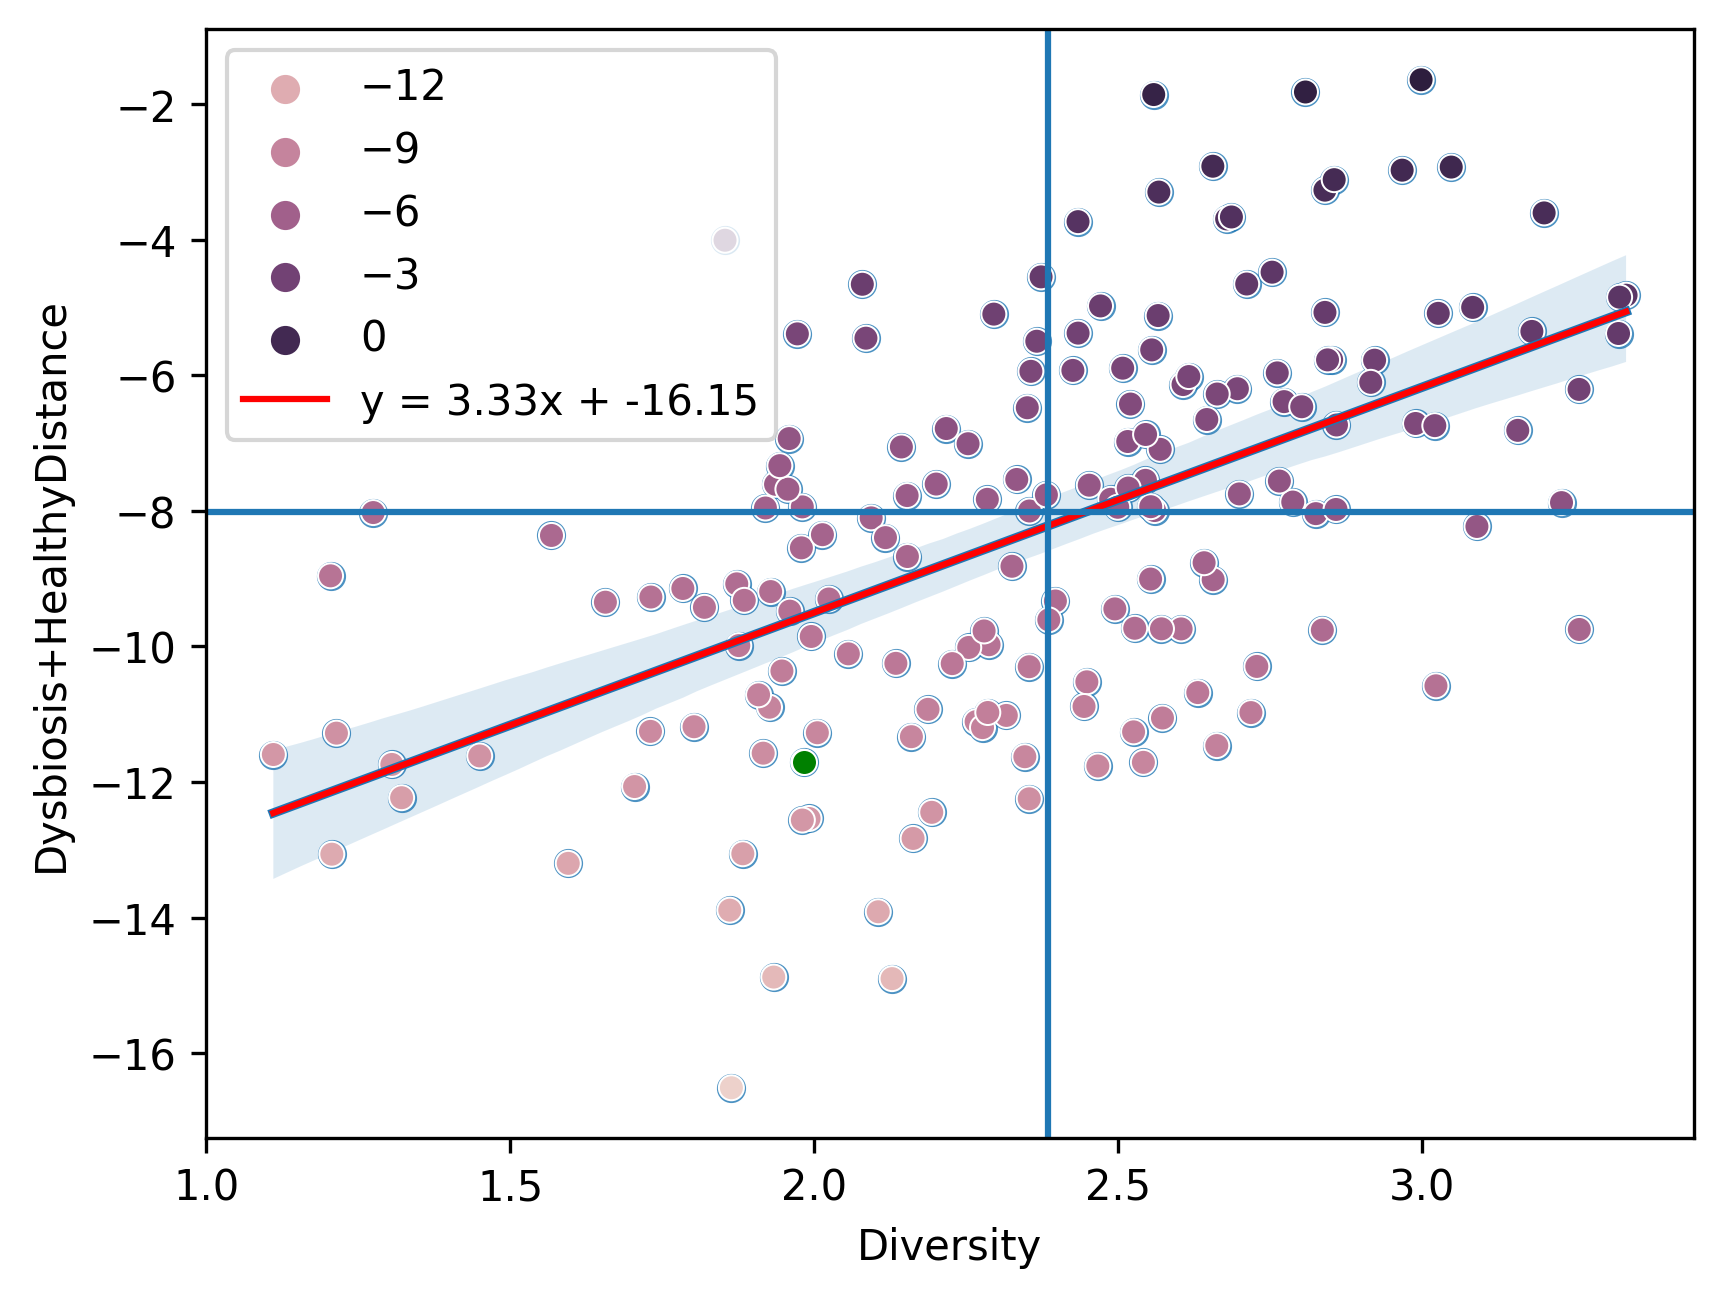
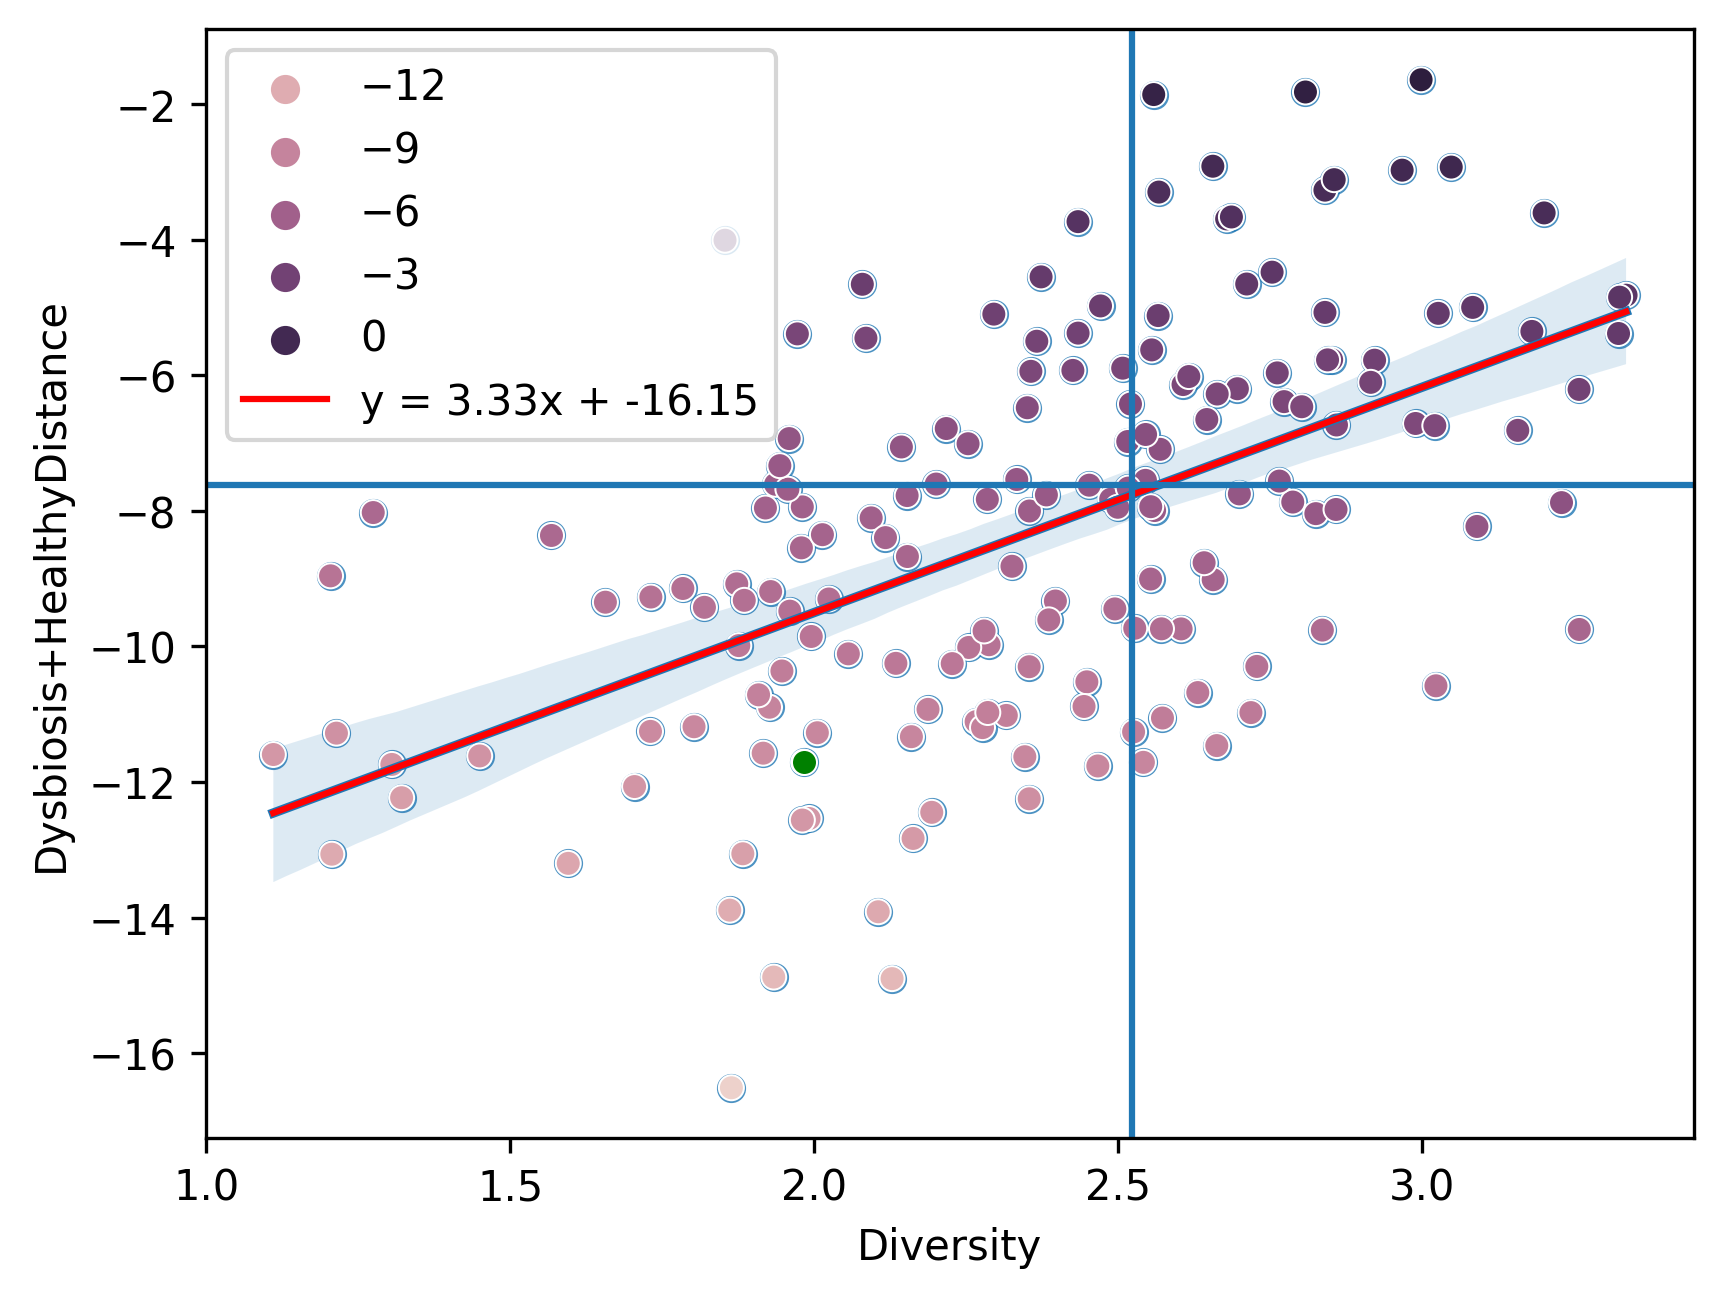
Update the code - EBID

Changed region(s): [[0.123, 0.0308, 0.9843, 0.8629], [0.7075, 0.3082, 0.7382, 0.339]]

diff --git a/comp_percentile_rank_forRPA.py b/comp_percentile_rank_forRPA.py
@@ -344,7 +344,7 @@ class CompAnimalDisease:
             print("Error has occurred in the CalculateHealthyDistance process")
             sys.exit()
     
-        return rv, rvmsg          
+        return rv, rvmsg    
     
     def CalculatePercentileRank(self):
         """
@@ -463,8 +463,7 @@ class CompAnimalDisease:
 
             # generate x and y values for the line
             x_vals = np.linspace(start=self.df_mrs_db['Diversity'].min(), stop=self.df_mrs_db['Diversity'].max(), num=100)
-            y_vals = intercept + slope * x_vals       
-            
+            y_vals = intercept + slope * x_vals                   
             
             sns.scatterplot(x=self.df_mrs_db['Diversity'], y=(self.df_mrs_db['Dysbiosis'] + self.df_mrs_db['HealthyDistance']), hue = self.df_mrs_db['TotalScore'] , data=self.df_mrs_db)
             
@@ -476,10 +475,32 @@ class CompAnimalDisease:
             plt.ylabel('Dysbiosis+HealthyDistance')
             plt.legend()
             
-            x_median = self.df_mrs_db['Diversity'].median(skipna=True)
-            y_median = (self.df_mrs_db['Dysbiosis'] + self.df_mrs_db['HealthyDistance']).median(skipna=True)
-            plt.axhline(y=y_median, xmin=0, xmax=1)
-            plt.axvline(x=x_median, ymin=0, ymax=1)
+            if self.species == 'dog':
+                li_x_quartile = list(self.df_mrs_db['Diversity'].quantile([0.6]))
+                li_y_quartile = list((self.df_mrs_db['Dysbiosis'] + self.df_mrs_db['HealthyDistance']).quantile([0.6]))                
+                                
+            else:
+                li_x_quartile = list(self.df_mrs_db['Diversity'].quantile([0.6]))
+                li_y_quartile = list((self.df_mrs_db['Dysbiosis'] + self.df_mrs_db['HealthyDistance']).quantile([0.6]))
+                         
+            plt.axhline(y=li_y_quartile[0], xmin=0, xmax=1)    
+            plt.axvline(x=li_x_quartile[0], ymin=0, ymax=1)
+            
+            E_data = self.df_mrs_db[(self.df_mrs_db['Diversity'] >= li_x_quartile[0]) & ((self.df_mrs_db['Dysbiosis'] + self.df_mrs_db['HealthyDistance']) >= li_y_quartile[0])]
+            B_data = self.df_mrs_db[(self.df_mrs_db['Diversity'] < li_x_quartile[0]) & ((self.df_mrs_db['Dysbiosis'] + self.df_mrs_db['HealthyDistance']) >= li_y_quartile[0])]
+            D_data = self.df_mrs_db[(self.df_mrs_db['Diversity'] < li_x_quartile[0]) & ((self.df_mrs_db['Dysbiosis'] + self.df_mrs_db['HealthyDistance']) < li_y_quartile[0])]
+            I_data = self.df_mrs_db[(self.df_mrs_db['Diversity'] >= li_x_quartile[0]) & ((self.df_mrs_db['Dysbiosis'] + self.df_mrs_db['HealthyDistance']) < li_y_quartile[0])]
+
+            E_percent = len(E_data) / len(self.df_mrs_db)
+            B_percent = len(B_data) / len(self.df_mrs_db)
+            D_percent = len(D_data) / len(self.df_mrs_db)
+            I_percent = len(I_data) / len(self.df_mrs_db)
+
+            print("Percentage of samples in E: ", 100*E_percent, '%')
+            print("Percentage of samples in B: ", 100*B_percent, '%') 
+            print("Percentage of samples in D: ", 100*D_percent, '%')
+            print("Percentage of samples in I: ", 100*I_percent, '%')  
+            
             # save the scatter plot
             plt.savefig(self.path_comp_scatterplot_output , dpi=300, bbox_inches='tight')          
             
@@ -501,8 +522,8 @@ if __name__ == '__main__':
     #path_exp = 'input/PDmirror_output_dog_1629.csv'
     #path_exp = 'input/PCmirror_output_cat_1520.csv'
     
-    #path_exp = 'input/PD_dog_one_sample.csv'
-    path_exp = 'input/PC_cat_one_sample.csv'
+    path_exp = 'input/PD_dog_one_sample.csv'
+    #path_exp = 'input/PC_cat_one_sample.csv'
     
     companimal = CompAnimalDisease(path_exp)
     companimal.ReadDB()
